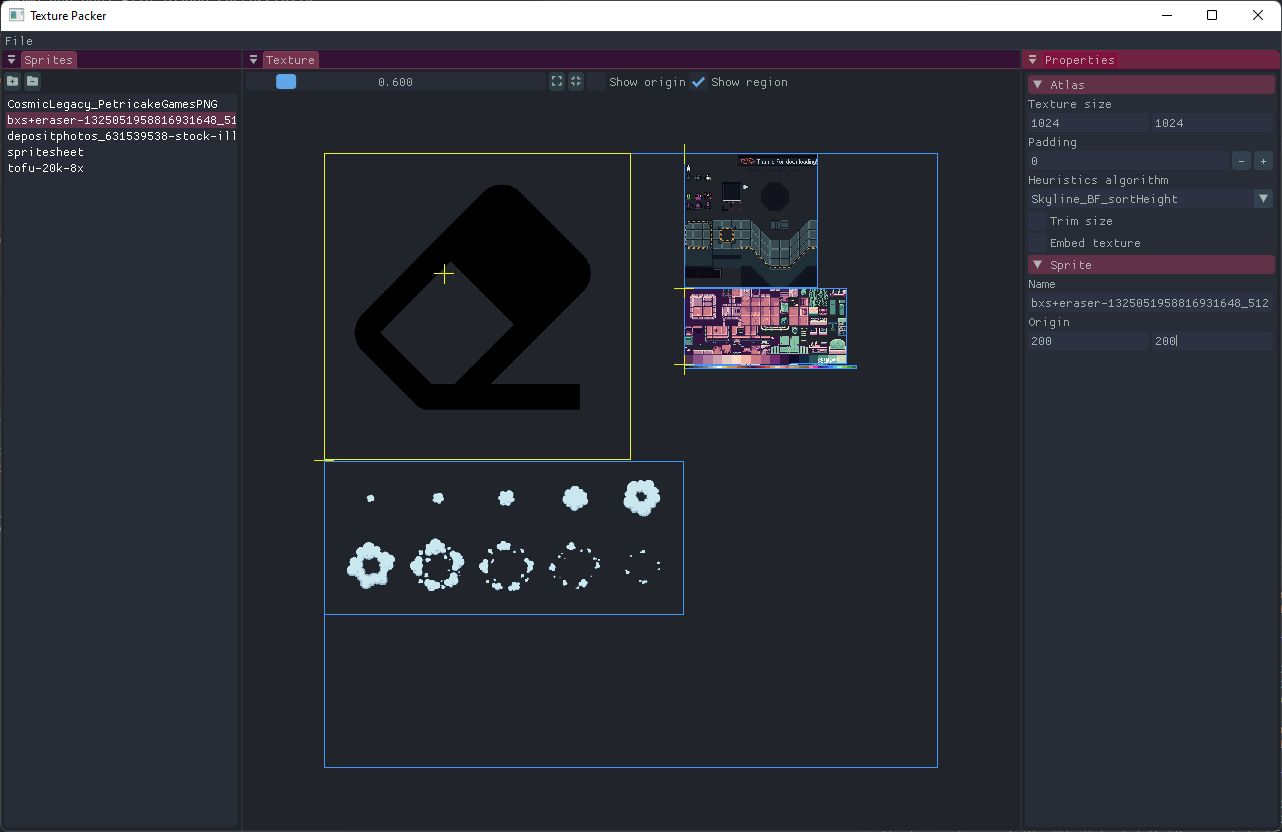
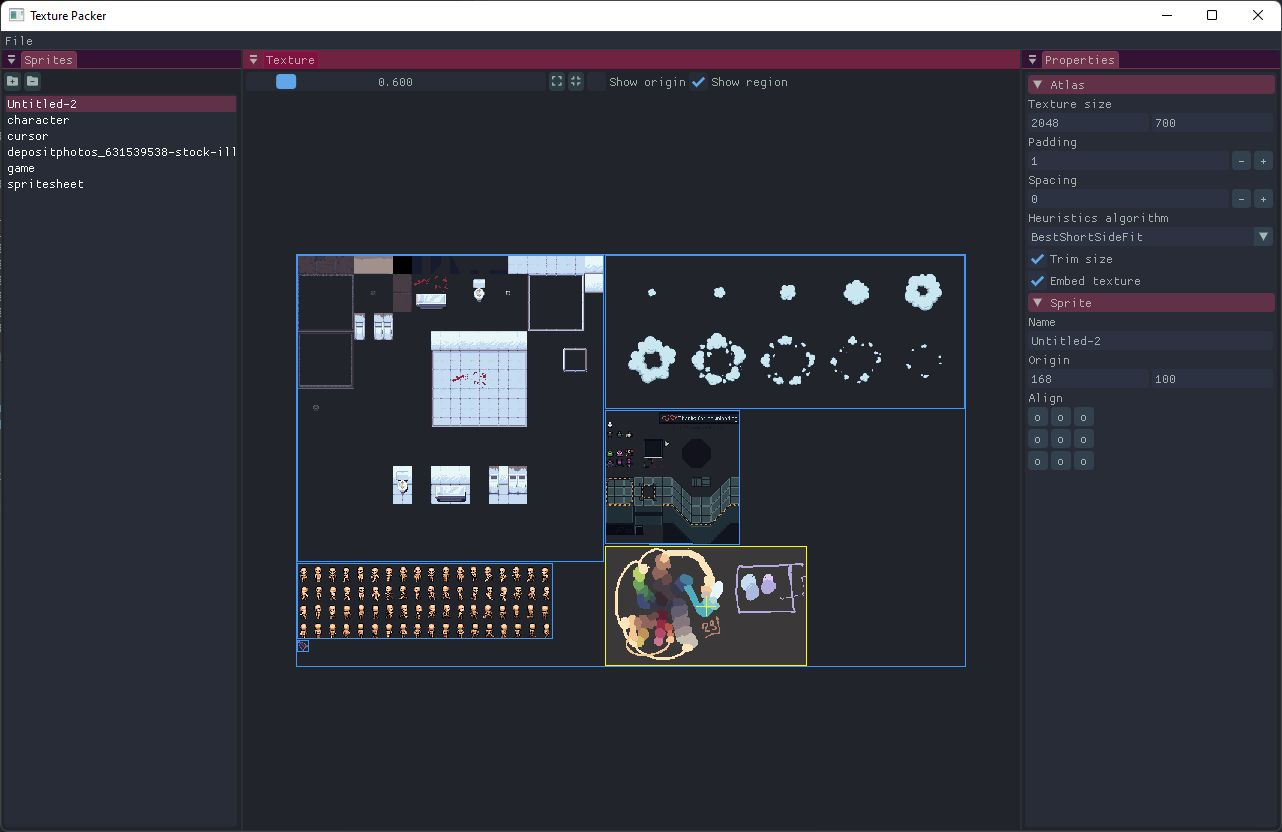
Core: update

diff --git a/source/app.cpp b/source/app.cpp
@@ -4,7 +4,6 @@ namespace box
 {
     app::app()
     {
-        _nodes.resize(0x7fff);
     }
 
     void app::show()
@@ -103,6 +102,14 @@ namespace box
                 if (ImGui::InputInt("##pd", &_padding))
                 {
                     _padding = _padding > 0 ? _padding : 0;
+                    _dirty   = true;
+                }
+
+                ImGui::Text("Spacing");
+                ImGui::SetNextItemWidth(-1);
+                if (ImGui::InputInt("##sp", &_spacing))
+                {
+                    _spacing = _spacing > 0 ? _spacing : 0;
                     _dirty   = true;
                 }
 
@@ -287,6 +294,10 @@ namespace box
         ImVec2 center(from + size / ImVec2(2, 2));
         ImVec2 origin(center - halftxt);
         ImVec2 mpos = (ImGui::GetMousePos() - origin) / zoom;
+        if (!ImGui::IsWindowHovered(ImGuiHoveredFlags_RootAndChildWindows))
+        {
+            mpos = {NAN, NAN};
+        }
 
         for (auto& el : _items)
         {
@@ -363,6 +374,7 @@ namespace box
         _width     = metadata.get_item("width").get(_width);
         _height    = metadata.get_item("height").get(_height);
         _padding   = metadata.get_item("padding").get(_padding);
+        _spacing   = metadata.get_item("spacing").get(_spacing);
         _trim      = metadata.get_item("trim_alpha").get(_trim);
         _heuristic = metadata.get_item("heuristics").get(_heuristic);
 
@@ -410,6 +422,9 @@ namespace box
             }
         }
 
+        _trimed_width += _spacing;
+        _trimed_height += _spacing;
+
         return true;
     }
 
@@ -423,6 +438,7 @@ namespace box
         metadata.set_item("width", _width);
         metadata.set_item("height", _height);
         metadata.set_item("padding", _padding);
+        metadata.set_item("spacing", _spacing);
         metadata.set_item("trim_alpha", _trim);
         metadata.set_item("heuristics", _heuristic);
 
@@ -576,8 +592,8 @@ namespace box
         }
 
         float occupancy = 0;
-        auto  ret       = maxRects(_width,
-                            _height,
+        auto  ret       = maxRects(_width - _spacing * 2,
+                            _height - _spacing * 2,
                             (int32_t)_item_rect.size(),
                             _item_rect.data(),
                             maxRectsFreeRectChoiceHeuristic(_heuristic),
@@ -591,8 +607,8 @@ namespace box
         for (int32_t n = 0; n < (int32_t)_item_rect.size(); ++n)
         {
             _sprites[n]->_packed        = _item_pos[n].used;
-            _sprites[n]->_region.x      = (float)_item_pos[n].left + _padding;
-            _sprites[n]->_region.y      = (float)_item_pos[n].top + _padding;
+            _sprites[n]->_region.x      = (float)_item_pos[n].left + _padding + _spacing;
+            _sprites[n]->_region.y      = (float)_item_pos[n].top + _padding + _spacing;
             _sprites[n]->_region.width  = (float)_sprites[n]->_img.width;
             _sprites[n]->_region.height = (float)_sprites[n]->_img.height;
             if (!_sprites[n]->_txt.id)
@@ -612,6 +628,9 @@ namespace box
                 }
             }
         }
+        _trimed_width += _spacing;
+        _trimed_height += _spacing;
+
         return ret != -1;
     }
 

diff --git a/source/app.hpp b/source/app.hpp
@@ -1,7 +1,6 @@
 #pragma once
 
 #include "include.hpp"
-#include <imstb_rectpack.h>
 
 namespace box
 {
@@ -45,13 +44,11 @@ namespace box
         std::map<std::string, sprite> _items;
         sprite*                       _active{};
         std::string                   _active_name;
-        stbrp_context                 _context{};
-        std::vector<stbrp_node>       _nodes;
-        std::vector<stbrp_rect>       _rects;
         std::vector<sprite*>          _sprites;
         float                         _zoom{1.0f};
         int32_t                       _heuristic{};
         int32_t                       _padding{};
+        int32_t                       _spacing{};
         int32_t                       _width{512};
         int32_t                       _height{512};
         int32_t                       _trimed_width{512};
